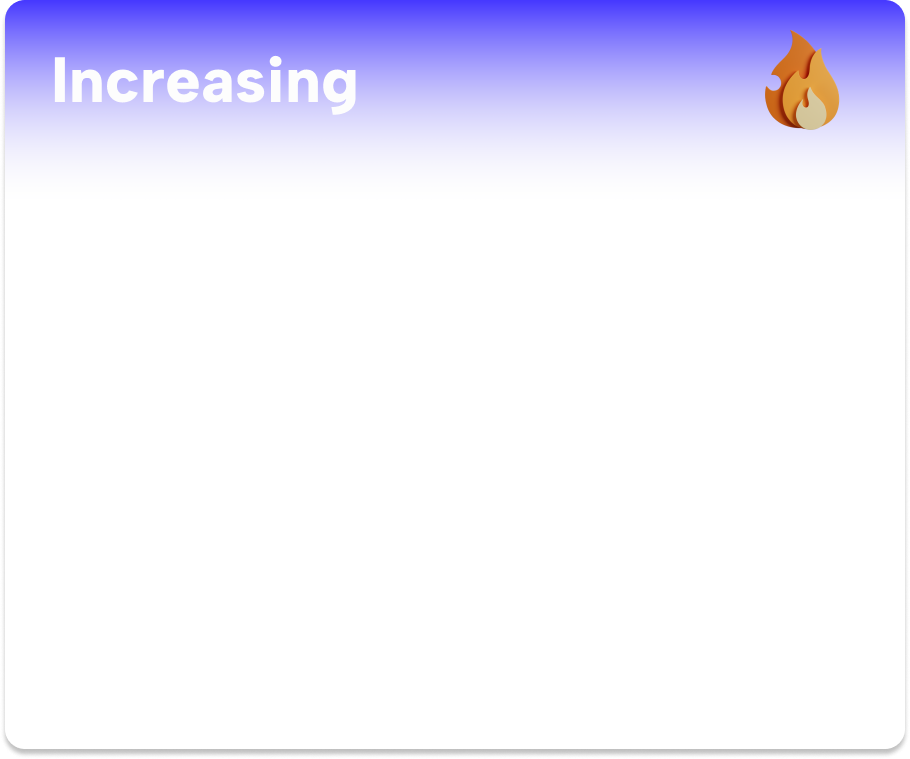
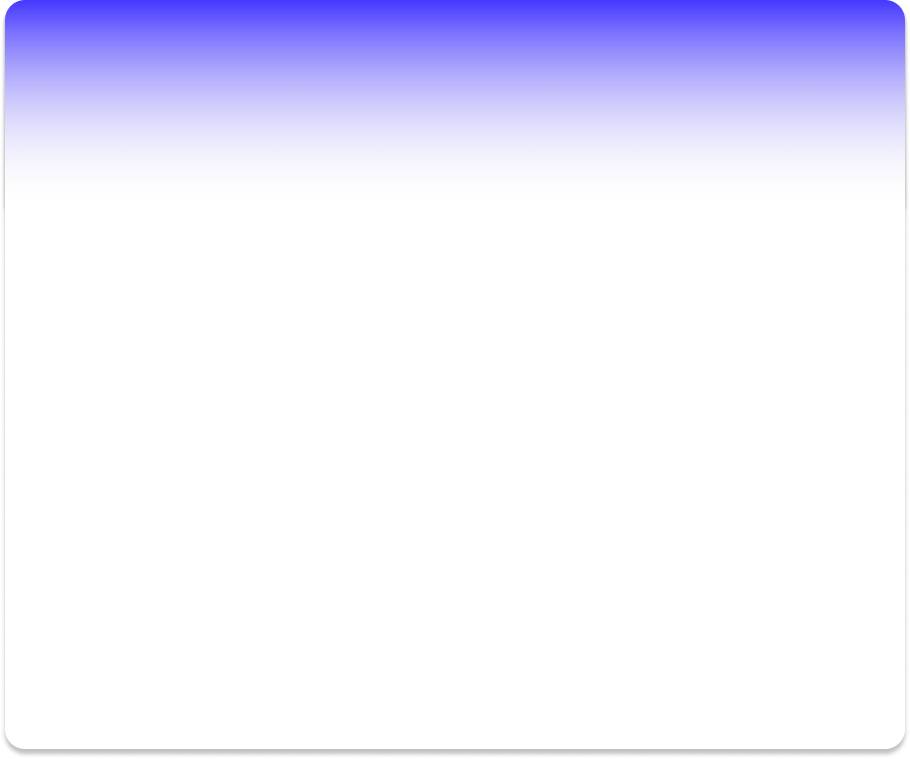
finish trending

Changed region(s): [[0.0615, 0.0606, 0.4, 0.1515], [0.8308, 0.0303, 0.9231, 0.1818]]

diff --git a/tothemarschart/src/pages/2.js/2.Trending.jsx b/tothemarschart/src/pages/2.js/2.Trending.jsx
@@ -1,12 +1,13 @@
-import React, { useState, useEffect } from "react";
+import React, { useState, useEffect, useMemo } from "react";
 import "../1.styling/2.Trending.css";
-import { Flame, Zap } from 'lucide-react';
+import { useNavigate } from 'react-router-dom';
 
 const Trending = () => {
+  const navigate = useNavigate(); // Navigation function from react-router-dom
   const [tickers, setTickers] = useState([]);
 
-  const CRYPTO_NAMES = { 'BTC': 'Bitcoin', 'ETH': 'Ethereum', 'SOL': 'Solana', 'XRP': 'Ripple', 'DOGE': 'Dogecoin', 'ADA': 'Cardano', 'SHIB': 'Shiba Inu', 'AVAX': 'Avalanche', 'TRX': 'TRON', 'TON': 'Toncoin', 'XLM': 'Stellar', 'DOT': 'Polkadot', 'LINK': 'Chainlink', 'BCH': 'Bitcoin Cash', 'SUI': 'Sui', 'NEAR': 'NEAR Protocol', 'UNI': 'Uniswap', 'HBAR': 'Hedera', 'APT': 'Aptos', 'ETC': 'Ethereum Classic', 'MASK': 'Mask Network', 'SAND': 'The Sandbox', 'ATOM': 'Cosmos', 'IMX': 'Immutable X', 'STX': 'Stacks', 'FLOW': 'Flow', 'GRT': 'The Graph' };
-  const markets = 'KRW-BTC,KRW-ETH,KRW-SOL,KRW-XRP,KRW-DOGE,KRW-ADA,KRW-SHIB,KRW-AVAX,KRW-TRX,KRW-TON,KRW-XLM,KRW-DOT,KRW-LINK,KRW-BCH,KRW-SUI,KRW-NEAR,KRW-UNI,KRW-HBAR,KRW-APT,KRW-ETC,KRW-MASK,KRW-SAND,KRW-ATOM,KRW-IMX,KRW-STX,KRW-FLOW,KRW-GRT';
+  const CRYPTO_NAMES = useMemo(() => ({ 'BTC': 'Bitcoin', 'ETH': 'Ethereum', 'SOL': 'Solana', 'XRP': 'Ripple', 'DOGE': 'Dogecoin', 'ADA': 'Cardano', 'SHIB': 'Shiba Inu', 'AVAX': 'Avalanche', 'TRX': 'TRON', 'TON': 'Toncoin', 'XLM': 'Stellar', 'DOT': 'Polkadot', 'LINK': 'Chainlink', 'BCH': 'Bitcoin Cash', 'SUI': 'Sui', 'NEAR': 'NEAR Protocol', 'UNI': 'Uniswap', 'HBAR': 'Hedera', 'APT': 'Aptos', 'ETC': 'Ethereum Classic', 'MASK': 'Mask Network', 'SAND': 'The Sandbox', 'ATOM': 'Cosmos', 'IMX': 'Immutable X', 'STX': 'Stacks', 'FLOW': 'Flow', 'GRT': 'The Graph' }), []); // 빈 의존성 배열로 한 번만 생성
+  const markets = useMemo(() => 'KRW-BTC,KRW-ETH,KRW-SOL,KRW-XRP,KRW-DOGE,KRW-ADA,KRW-SHIB,KRW-AVAX,KRW-TRX,KRW-TON,KRW-XLM,KRW-DOT,KRW-LINK,KRW-BCH,KRW-SUI,KRW-NEAR,KRW-UNI,KRW-HBAR,KRW-APT,KRW-ETC,KRW-MASK,KRW-SAND,KRW-ATOM,KRW-IMX,KRW-STX,KRW-FLOW,KRW-GRT', []);
 
   useEffect(() => {
     const fetchTickers = async () => {
@@ -38,76 +39,94 @@ const Trending = () => {
     fetchTickers();
     const interval = setInterval(fetchTickers, 5000);
     return () => clearInterval(interval);
-  }, []);
+  }, [CRYPTO_NAMES, markets]); // 의존성 배열에 추가
 
-  const volumeSort = [...tickers].sort((a, b) => b.acc_trade_volume - a.acc_trade_volume);
-  const rateSort = [...tickers].sort((a, b) => b.signed_change_rate - a.signed_change_rate);
+  const volumeSort = useMemo(() => 
+    [...tickers].sort((a, b) => b.acc_trade_volume - a.acc_trade_volume)
+  , [tickers]);
+  
+  const rateSort = useMemo(() => 
+    [...tickers].sort((a, b) => b.signed_change_rate - a.signed_change_rate)
+  , [tickers]);
 
   return (
-    <div className="trending-container">
-      <div className="trending-section increasing-section">
-        <div className="ticker-list">
-          {rateSort.slice(0, 6).map((ticker, index) => (
-            <div key={ticker.description} className="ticker-item">
-              <div className="ticker-left">
-                <span className="ticker-number">{index + 1}.</span>
-                <img 
-                  src={ticker.icon} 
-                  alt={ticker.description} 
-                  className="ticker-icon"
-                  onError={(e) => {
-                    e.target.onerror = null;
-                    e.target.src = 'https://via.placeholder.com/32';
-                  }}
-                />
-                <div className="ticker-info">
-                  <span className="ticker-name">{ticker.name}</span>
-                  <span className="ticker-description">{ticker.description}</span>
+    <div className="trending-wrapper">
+      <div className="trending-container">
+        <div className="trending-section increasing-section">
+          <h1 style={{ color: 'white', margin: '0', paddingLeft:'15px', fontSize: '55px', display: 'flex', justifyContent: 'space-between', alignItems: 'center', textShadow: '2px 2px 4px rgba(0, 0, 0, 0.3)' }}> 
+            Increasing <img src="/resources/2.Trending/fire.png" alt="fire" style={{ width: '100px', objectFit: 'contain', verticalAlign: 'middle' }} /> 
+          </h1>
+          <div className="ticker-list-container">
+            <div className="ticker-list" onClick={() => {navigate('./search')}}>
+              {rateSort.map((ticker, index) => (
+                <div key={ticker.description} className="ticker-item">
+                  <div className="ticker-left">
+                    <span className="ticker-number">{index + 1}.</span>
+                    <img 
+                      src={ticker.icon} 
+                      alt={ticker.description} 
+                      className="ticker-icon"
+                      onError={(e) => {
+                        e.target.onerror = null;
+                        e.target.src = 'https://via.placeholder.com/32';
+                      }}
+                    />
+                    <div className="ticker-info">
+                      <span className="ticker-name">{ticker.name}</span>
+                      <span className="ticker-description">{ticker.description}</span>
+                    </div>
+                  </div>
+                  <div className="ticker-right">
+                  {Number(ticker.trade_price).toLocaleString()}<span style={{paddingRight:"20px"}}>KRW</span>
+                    <span className={`ticker-value ${ticker.isPositive ? 'positive' : 'negative'}`}>
+                     {ticker.value}
+                    </span>
+                    <span className={ticker.isPositive ? 'positive' : 'negative'}>
+                      {ticker.percentage}
+                    </span>
+                  </div>
                 </div>
-              </div>
-              <div className="ticker-right">
-                <span className={`ticker-value ${ticker.isPositive ? 'positive' : 'negative'}`}>
-                  {ticker.value}
-                </span>
-                <span className={ticker.isPositive ? 'positive' : 'negative'}>
-                  {ticker.percentage}
-                </span>
-              </div>
+              ))}
             </div>
-          ))}
+          </div>
         </div>
-      </div>
 
-      <div className="trending-section transaction-section">
-        <div className="ticker-list">
-          {volumeSort.slice(0, 6).map((ticker, index) => (
-            <div key={ticker.description} className="ticker-item">
-              <div className="ticker-left">
-                <span className="ticker-number">{index + 1}.</span>
-                <img 
-                  src={ticker.icon} 
-                  alt={ticker.description} 
-                  className="ticker-icon"
-                  onError={(e) => {
-                    e.target.onerror = null;
-                    e.target.src = 'https://via.placeholder.com/32';
-                  }}
-                />
-                <div className="ticker-info">
-                  <span className="ticker-name">{ticker.name}</span>
-                  <span className="ticker-description">{ticker.description}</span>
+        <div className="trending-section transaction-section">
+          <h1 style={{paddingLeft:'15px', color: 'white', margin: '0', fontSize: '55px', display: 'flex', justifyContent: 'space-between', alignItems: 'center', textShadow: '2px 2px 4px rgba(0, 0, 0, 0.3)' }}> 
+            Transaction <img src="/resources/2.Trending/light.png" alt="fire" style={{ width: '100px', objectFit: 'contain', verticalAlign: 'middle', paddingBottom:'5px' }} /> 
+          </h1>
+          <div className="ticker-list-container">
+            <div className="ticker-list" onClick={() => {navigate('./search')}}>
+              {volumeSort.map((ticker, index) => (
+                <div key={ticker.description} className="ticker-item">
+                  <div className="ticker-left">
+                    <span className="ticker-number">{index + 1}.</span>
+                    <img 
+                      src={ticker.icon} 
+                      alt={ticker.description} 
+                      className="ticker-icon"
+                      onError={(e) => {
+                        e.target.onerror = null;
+                        e.target.src = 'https://via.placeholder.com/32';
+                      }}
+                    />
+                    <div className="ticker-info">
+                      <span className="ticker-name">{ticker.name}</span>
+                      <span className="ticker-description">{ticker.description}</span>
+                    </div>
+                  </div>
+                  <div className="ticker-right">
+                    <span className={`ticker-value ${ticker.isPositive ? 'positive' : 'negative'}`}>
+                      {ticker.value}
+                    </span>
+                    <span className={ticker.isPositive ? 'positive' : 'negative'}>
+                      {ticker.percentage}
+                    </span>
+                  </div>
                 </div>
-              </div>
-              <div className="ticker-right">
-                <span className={`ticker-value ${ticker.isPositive ? 'positive' : 'negative'}`}>
-                  {ticker.value}
-                </span>
-                <span className={ticker.isPositive ? 'positive' : 'negative'}>
-                  {ticker.percentage}
-                </span>
-              </div>
+              ))}
             </div>
-          ))}
+          </div>
         </div>
       </div>
     </div>

diff --git a/tothemarschart/src/pages/1.styling/2.Trending.css b/tothemarschart/src/pages/1.styling/2.Trending.css
@@ -1,34 +1,118 @@
-.trending-container {
-  display: flex;
-  gap: 20px;
-  padding: 20px;
-  max-width: 1400px;
-  margin: 0 auto;
+.trending-wrapper {
+  position: relative;
+  width: 100%;
+  min-height: 100vh;
+  background-image: url("../../../public/resources/2.Trending/back-ground.png");
+  background-size: 100;
+  background-position: center;
+  background-repeat: no-repeat;
+  animation: slideInFromBottom 0.4s ease-out forwards;
+}
+
+@keyframes slideInFromBottom {
+  0% {
+    transform: translateY(30px);
+    opacity: 0;
+  }
+  100% {
+    transform: translateY(0);
+    opacity: 1;
+  }
+}
+
+@media(max-width: 880px){
+  .trending-container {
+    gap: 10px;
+    padding: 20px;
+    max-width: 770px;
+    margin: 0 auto;
+    margin-top: 50px;
+    animation: slideInFromBottom 0.8s ease-out forwards;
+  }
+}
+
+@media(min-width: 880px){
+  .trending-container {
+    display: flex;
+    gap: 10px;
+    padding: 20px;
+    max-width: 1600px;
+    margin: 0 auto;
+    margin-top: 50px;
+    animation: slideInFromBottom 0.8s ease-out forwards;
+  }
 }
 
 .trending-section {
   flex: 1;
   padding: 20px;
-  border-radius: 20px;
-  position: relative;
-  min-height: 600px;
-  background-size: cover;
-  background-position: center;
+  border-radius: 2%;
+  background-size: 100% 100%;
   background-repeat: no-repeat;
+  display: flex;
+  flex-direction: column;
+  height: 600px;
+  opacity: 0;
+  animation: fadeIn 0.6s ease-out forwards;
 }
+
 
 .increasing-section {
   background-image: url("../../../public/resources/2.Trending/Increasing.png");
+  animation-delay: 0.2s;
 }
 
 .transaction-section {
   background-image: url("../../../public/resources/2.Trending/transaction.png");
+  animation-delay: 0.4s;
+}
+
+@keyframes fadeIn {
+  0% {
+    transform: translateY(20px);
+    opacity: 0;
+  }
+  100% {
+    transform: translateY(0);
+    opacity: 1;
+  }
+}
+
+.ticker-list-container {
+  flex: 1;
+  overflow: hidden; /* 스크롤바를 숨기되 기능은 유지 */
+  margin-top: 20px;
+  position: relative;
 }
 
 .ticker-list {
   display: flex;
   flex-direction: column;
   gap: 8px;
+  overflow-y: auto; /* 세로 스크롤 활성화 */
+  height: 100%;
+  padding-right: 8px; /* 스크롤바 공간 확보 */
+  mask-image: linear-gradient(to bottom, transparent 0%, black 5%, black 95%, transparent 100%);
+  -webkit-mask-image: linear-gradient(to bottom, transparent 0%, black 5%, black 95%, transparent 100%);
+}
+
+/* 스크롤바 스타일링 */
+.ticker-list::-webkit-scrollbar {
+  width: 6px;
+}
+
+.ticker-list::-webkit-scrollbar-track {
+  background: rgba(255, 255, 255, 0.1);
+  border-radius: 3px;
+}
+
+.ticker-list::-webkit-scrollbar-thumb {
+  background: rgba(255, 255, 255, 0.3);
+  border-radius: 3px;
+}
+
+.ticker-list::-webkit-scrollbar-thumb:hover {
+  background: rgba(255, 255, 255, 0.5);
 }
 
 .ticker-item {
@@ -36,15 +120,41 @@
   align-items: center;
   justify-content: space-between;
   background: rgba(255, 255, 255, 0.9);
-  padding: 12px 16px;
+  padding: 15px 17px;
   border-radius: 12px;
-  transition: transform 0.2s;
+  transition: all 0.3s cubic-bezier(0.4, 0, 0.2, 1);
+  box-shadow: 0 2px 4px rgba(0, 0, 0, 0.1);
+  cursor: pointer;
+  opacity: 0;
+  animation: tickerFadeIn 0.5s ease-out forwards;
 }
+
+@keyframes tickerFadeIn {
+  0% {
+    transform: translateX(-20px);
+    opacity: 0;
+  }
+  100% {
+    transform: translateX(0);
+    opacity: 1;
+  }
+}
+
+/* 각 ticker-item에 순차적인 애니메이션 딜레이 적용 */
+.ticker-item:nth-child(1) { animation-delay: 0.6s; }
+.ticker-item:nth-child(2) { animation-delay: 0.7s; }
+.ticker-item:nth-child(3) { animation-delay: 0.8s; }
+.ticker-item:nth-child(4) { animation-delay: 0.9s; }
+.ticker-item:nth-child(5) { animation-delay: 1.0s; }
+.ticker-item:nth-child(6) { animation-delay: 1.1s; }
+.ticker-item:nth-child(7) { animation-delay: 1.2s; }
 
 .ticker-item:hover {
-  transform: translateY(-2px);
+  transform: translateY(-2px) scale(1.01);
+  box-shadow: 0 12px 20px rgba(0, 0, 0, 0.15);
+  background: rgba(255, 255, 255, 0.95);
+  z-index: 1;
 }
-
 .ticker-left {
   display: flex;
   align-items: center;
@@ -52,14 +162,14 @@
 }
 
 .ticker-number {
-  font-size: 16px;
+  font-size: 20px;
   font-weight: bold;
   color: #4a5568;
 }
 
 .ticker-icon {
-  width: 24px;
-  height: 24px;
+  width: 35px;
+  height: 35px;
   border-radius: 50%;
 }
 
